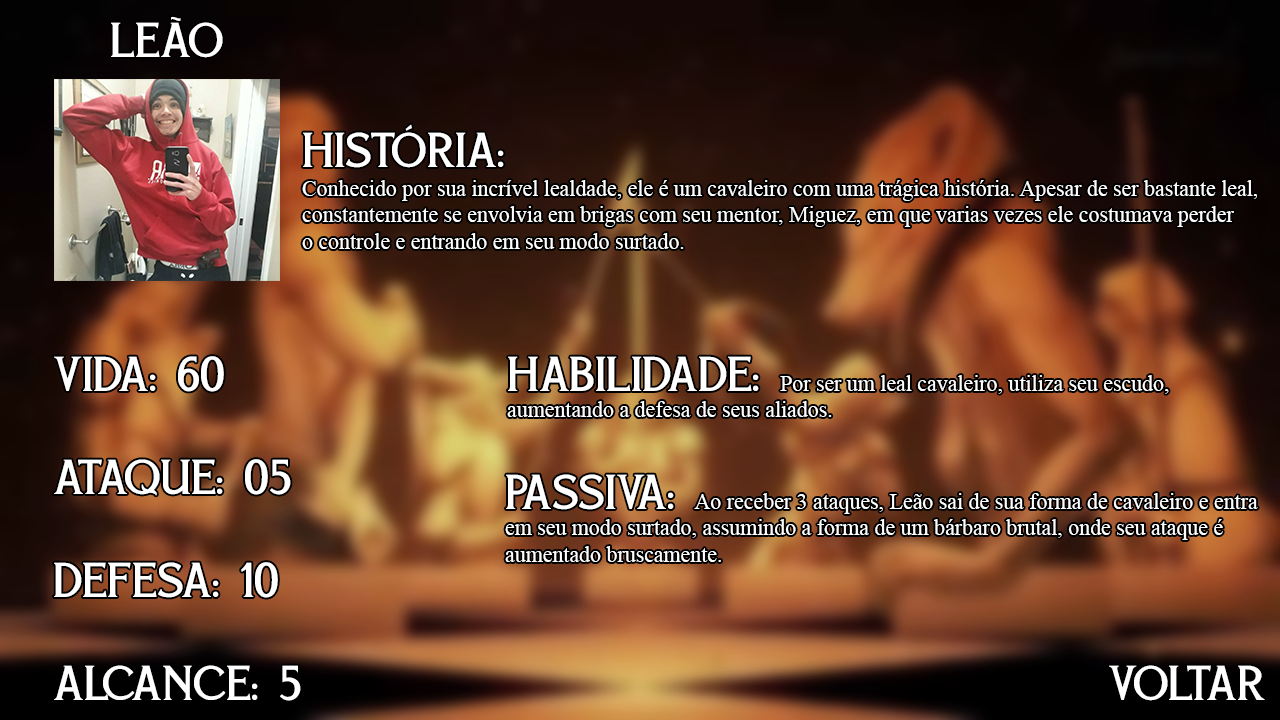
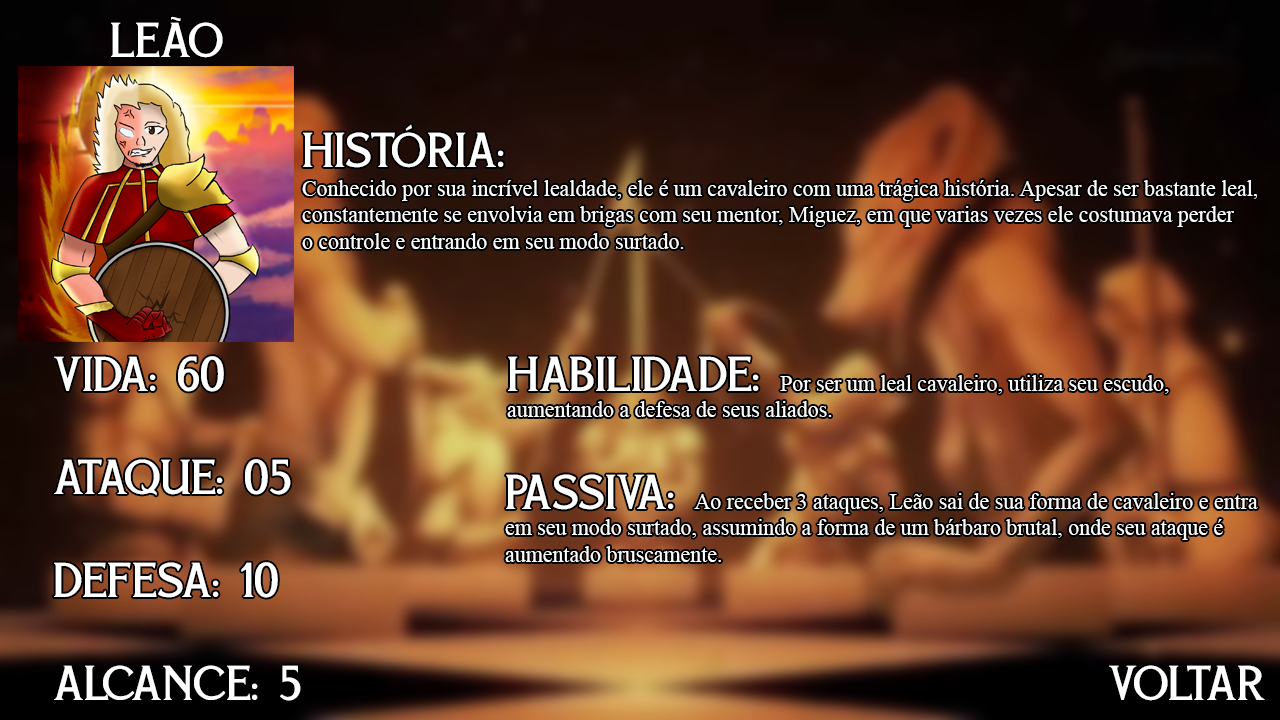
fazendo tela de vencedor, colocando henridog e atualizando regras

Changed region(s): [[0.0, 0.0917, 0.25, 0.4889]]

diff --git a/src/main/java/grupoxande/cst/JogarController.java b/src/main/java/grupoxande/cst/JogarController.java
@@ -9,6 +9,7 @@ import CSTgame.CSTpeca;
 import CSTgame.CSTposicao;
 import CSTgame.exececaoCST;
 import CSTgame.partidaCST;
+import CSTgame.personagensCST.henridog;
 import CSTgame.personagensCST.leao;
 import CSTgame.personagensCST.miguez;
 import CSTgame.personagensCST.racoba;
@@ -18,6 +19,7 @@ import static grupoxande.cst.App.*;
 import java.io.FileInputStream;
 
 import java.io.FileNotFoundException;
+import java.io.IOException;
 import java.net.URL;
 import java.util.InputMismatchException;
 import java.util.ResourceBundle;
@@ -31,7 +33,6 @@ import javafx.scene.control.TextInputDialog;
 import javafx.scene.image.Image;
 import javafx.scene.image.ImageView;
 import javafx.scene.layout.AnchorPane;
-import javafx.scene.layout.StackPane;
 import javafx.scene.shape.Rectangle;
 import tabuleiroGame.posicao;
 
@@ -127,12 +128,21 @@ private void inicializarTabulAnimacoes(){
         animacaoAtaque(atacado.toPosicao());
         CSTpeca lion = partidaCST.acharPecaPorPosicao(atacado.toPosicao());
         partidaCST.perfomaceAtaque(atacante, atacado);
+       
         if(lion.getVida() > 0){
             if(lion instanceof leao){
                 imagens[lion.getPosicao().getLinha()][lion.getPosicao().getColuna()].setImage(null);
                 imagens[lion.getPosicao().getLinha()][lion.getPosicao().getColuna()].setImage(((leao) lion).getVisual());
             }
         }
+           time vencedor = partidaCST.testaQuemGanhou();
+             if(vencedor == time.ORACULO){
+                 nomeVencedor = nomes[0];
+                 App.setRoot("vencedor");
+             }else if(vencedor == time.TROPA){
+                 nomeVencedor = nomes[1];
+                 App.setRoot("vencedor");
+             }
         
        
            //partidaCST.perfomaceFazerMovimento(mover, movido);
@@ -149,7 +159,9 @@ private void inicializarTabulAnimacoes(){
           alerta.setHeaderText("FALHA EM RELAÇÃO AO JOGO");
           alerta.setContentText(e.getMessage());
           alerta.show();
-      }
+      } catch (IOException ex) {
+            ex.printStackTrace();
+        }
     resetarTabuleiro();
     printarPartida.setText(UI.printarPartida(partidaCST, nomes));
     statuslabel.setText(UI.printarStatus(partidaCST.getJogador().getPecaAtual(), tamanhoTabul));
@@ -180,6 +192,15 @@ private void inicializarTabulAnimacoes(){
     CSTposicao movido = UI.traduzirPosicao(10, posicaoFinal);
     
        partidaCST.perfomaceFazerMovimento(mover, movido);
+        time vencedor = partidaCST.testaQuemGanhou();
+             if(vencedor == time.ORACULO){
+                 nomeVencedor = nomes[0];
+                 App.setRoot("vencedor");
+             }else if(vencedor == time.TROPA){
+                 nomeVencedor = nomes[1];
+                 App.setRoot("vencedor");
+             }
+             
      }catch (FileNotFoundException ex) {
            alerta.setHeaderText("FALHA EM ARQUIVO");
            alerta.setContentText("Arquivo nao encontrado");
@@ -193,7 +214,9 @@ private void inicializarTabulAnimacoes(){
           alerta.setHeaderText("FALHA EM RELAÇÃO AO JOGO");
           alerta.setContentText(e.getMessage());
           alerta.show();
-      }
+      } catch (IOException ex) {
+            ex.printStackTrace();
+        }
     resetarTabuleiro();
     printarPartida.setText(UI.printarPartida(partidaCST, nomes));
      statuslabel.setText(UI.printarStatus(partidaCST.getJogador().getPecaAtual(), tamanhoTabul));
@@ -212,13 +235,13 @@ private void inicializarTabulAnimacoes(){
             pegarposicao.showAndWait();
             posicao = pegarposicao.getResult();
             CSTposicao origem = UI.traduzirPosicao(10, posicao);
-             animacaoHabilidade(origem.toPosicao());
+             //animacaoHabilidade(origem.toPosicao());
              
             //printarTabuleiroPossiveisMovimento(mover);
             if(partidaCST.getJogador().getPecaAtual() instanceof racoba){
                 partidaCST.perfomaceHabilidade(origem, origem);
                 
-                animacaoHabilidade.setImage(null);
+                //animacaoHabilidade.setImage(null);
                 printarPartida.setText(UI.printarPartida(partidaCST, nomes));
                 statuslabel.setText(UI.printarStatus(partidaCST.getJogador().getPecaAtual(), tamanhoTabul));
             }else{
@@ -233,9 +256,18 @@ private void inicializarTabulAnimacoes(){
             CSTposicao destino = UI.traduzirPosicao(10, posicaoFinal);
             partidaCST.perfomaceHabilidade(origem, destino);
              
-             animacaoHabilidade.setImage(null);
+             animacaoHabilidade(origem.toPosicao());
              printarPartida.setText(UI.printarPartida(partidaCST, nomes));
              statuslabel.setText(UI.printarStatus(partidaCST.getJogador().getPecaAtual(), tamanhoTabul));
+             time vencedor = partidaCST.testaQuemGanhou();
+             if(vencedor == time.ORACULO){
+                 nomeVencedor = nomes[0];
+                 App.setRoot("vencedor");
+             }else if(vencedor == time.TROPA){
+                 nomeVencedor = nomes[1];
+                 App.setRoot("vencedor");
+             }
+             //animacaoHabilidade.setImage(null);
             }
      }catch(FileNotFoundException e){
           alerta.setHeaderText("FALHA AO LOCALIZAR ARQUIVO");
@@ -253,7 +285,9 @@ private void inicializarTabulAnimacoes(){
           alerta.setContentText(e.getMessage());
           alerta.show();
           animacaoHabilidade.setImage(null);
-      }
+      } catch (IOException ex) {
+            ex.printStackTrace();
+        }
     
     printarPartida.setText(UI.printarPartida(partidaCST, nomes));
      statuslabel.setText(UI.printarStatus(partidaCST.getJogador().getPecaAtual(), tamanhoTabul));
@@ -321,19 +355,28 @@ private void inicializarTabulAnimacoes(){
            }
             printarPartida.setText(UI.printarPartida(partidaCST, nomes));
             statuslabel.setText(UI.printarStatus(partidaCST.getJogador().getPecaAtual(), tamanhoTabul));
-             
+            time vencedor = partidaCST.testaQuemGanhou();
+             if(vencedor == time.ORACULO){
+                 nomeVencedor = nomes[0];
+                 App.setRoot("vencedor");
+             }else if(vencedor == time.TROPA){
+                 nomeVencedor = nomes[1];
+                 App.setRoot("vencedor");
+             }
          }catch(InputMismatchException e){
           alerta.setHeaderText("FALHA AO DIGTAR");
           alerta.setContentText(e.getMessage());
           alerta.show();
-          animacaoHabilidade.setImage(null);
+          //animacaoHabilidade.setImage(null);
           
       }catch(exececaoCST e){
           alerta.setHeaderText("FALHA EM RELAÇÃO AO JOGO");
           alerta.setContentText(e.getMessage());
           alerta.show();
           animacaoHabilidade.setImage(null);
-      }
+      } catch (IOException ex) {
+            ex.printStackTrace();
+        }
     }
 /*void partidaIniciada(){
     String resp = "S";
@@ -425,6 +468,8 @@ private void inicializarImagens(char coluna, int linha){
                visual = ((leao) visualPeca).getVisual();
            }else if(visualPeca instanceof juao){
                visual = ((juao) visualPeca).getVisual();
+           }else if(visualPeca instanceof henridog){
+               visual = ((henridog) visualPeca).getVisual();
            }
           
      }catch(FileNotFoundException e){
@@ -460,6 +505,8 @@ private void animacaoHabilidade(posicao pospeca) throws FileNotFoundException{
         animacao = new Image(new FileInputStream("C:\\Users\\Pedrão Barros\\Documents\\NetBeansProjects\\CST\\src\\main\\resources\\grupoxande\\cst\\imagem\\habilidadeMiguez.gif"));
     }else if(peca instanceof leao){
         animacao = new Image(new FileInputStream("C:\\Users\\Pedrão Barros\\Documents\\NetBeansProjects\\CST\\src\\main\\resources\\grupoxande\\cst\\imagem\\habilidadeLeao.gif"));
+    }else if(peca instanceof henridog){
+        animacao = new Image(new FileInputStream("C:\\Users\\Pedrão Barros\\Documents\\NetBeansProjects\\CST\\src\\main\\resources\\grupoxande\\cst\\imagem\\habilidadeHenridog.gif"));
     }
     animacaoHabilidade.setImage(animacao);
 }

diff --git a/src/main/java/CSTgame/partidaCST.java b/src/main/java/CSTgame/partidaCST.java
@@ -234,6 +234,8 @@ public class partidaCST implements Serializable{
             visual = ((racoba) pecavisual).getVisual();
         }else if(pecavisual instanceof juao){
             visual = ((juao) pecavisual).getVisual();
+        }else if(pecavisual instanceof henridog){
+            visual = ((henridog) pecavisual).getVisual();
         }
         //lembrar de colocar os visuais dos outros personagens
         return visual;
@@ -310,7 +312,7 @@ public class partidaCST implements Serializable{
     }
     proximoTurno();
 }
-    public void perfomaceHabilidade(CSTposicao posicaoVoce, CSTposicao posicaoAliado){
+    public void perfomaceHabilidade(CSTposicao posicaoVoce, CSTposicao posicaoAliado) throws FileNotFoundException{
         posicao posicaooVoce = posicaoVoce.toPosicao();
         posicao posicaooAliado = posicaoAliado.toPosicao();
         validacaoHabilidadeGenericaPosicao(posicaooVoce);
@@ -403,7 +405,7 @@ public class partidaCST implements Serializable{
         }
         
     }
-    private void habilidade(CSTpeca voce, CSTpeca aliado){
+    private void habilidade(CSTpeca voce, CSTpeca aliado) throws FileNotFoundException{
        if(voce instanceof juao){
            habilidadeJuao((juao)voce, aliado);
        }else{
@@ -627,15 +629,16 @@ public class partidaCST implements Serializable{
         }
         return -1;
     }
-    public void morreu(CSTpeca peca, CSTpeca atacante){
+    public void morreu(CSTpeca peca, CSTpeca atacante) throws FileNotFoundException{
         posicao aux = peca.getPosicao();
         if(peca.getVida() <= 0){
-            
+            imagens[peca.getPosicao().getLinha()][peca.getPosicao().getColuna()].setImage(null);
             tabuleiro.removerPeca(peca.getPosicao());
             if(peca instanceof henridog){
                 if(((henridog)peca).isRENASCEU() == false){
                     ((henridog)peca).passiva();
                     tabuleiro.colocarPeca(peca, aux);
+                    imagens[peca.getPosicao().getLinha()][peca.getPosicao().getColuna()].setImage(((henridog) peca).getVisual());
                 }else{
                     if(((CSTpeca)peca).getTiminho() == time.ORACULO){
                         pecasOraculo.remove(peca);
@@ -646,6 +649,7 @@ public class partidaCST implements Serializable{
                     }
                 }
             }else{
+                 
                 if(peca.getTiminho() == time.ORACULO){
                     pecasOraculo.remove(peca);
 
@@ -653,7 +657,7 @@ public class partidaCST implements Serializable{
                 }else{
                     pecasTropa.remove(peca);
                 }
-                imagens[peca.getPosicao().getLinha()][peca.getPosicao().getColuna()].setImage(null);
+               
             }
         }
     }   
@@ -828,9 +832,9 @@ public class partidaCST implements Serializable{
             //colocarNovaPeca(new obstaculo(tabuleiro, time.OBSTACULO, 0, 0, 10,5,"obsT"), 6, 'B');
             //colocarNovaPeca(new obstaculo(tabuleiro, time.OBSTACULO, 0, 0, 10,5,"obsT"), 10, 'G');
             //colocarNovaPeca(new henridog(tabuleiro, time.ORACULO, 20, 0, 120,5,"henrigO", this), 6, 'B');
-            colocarNovaPeca(new leao(tabuleiro, time.TROPA, 20, 0, 120,5,"leaoT"), 8, 'B');
-            colocarNovaPeca(new leao(tabuleiro, time.ORACULO, 20, 0, 120,5,"leaoT"), 7, 'B');
-             //colocarNovaPeca(new leao(tabuleiro, time.ORACULO, 20, 0, 120,5,"leaoO"), 6, 'B');
+            colocarNovaPeca(new leao(tabuleiro, time.TROPA, 20, 0, 119,5,"leaoT"), 8, 'B');
+            colocarNovaPeca(new henridog(tabuleiro, time.ORACULO, 20, 0, 120,5,"leaoT",this), 7, 'B');
+            //colocarNovaPeca(new leao(tabuleiro, time.ORACULO, 20, 0, 120,5,"leaoO"), 6, 'B');
            // colocarNovaPeca(new racoba(tabuleiro, time.ORACULO, 20, 0, 120,5,"leaoT",this), 6, 'B');
             //colocarNovaPeca(new racoba(tabuleiro, time.TROPA, 20, 0, 120,5,"leaoT",this), 5, 'B');
             //colocarNovaPeca(new miguez(tabuleiro, time.ORACULO, 20, 0, 120,5,this,"leaoT"), 4, 'B');

diff --git a/src/main/java/CSTgame/personagensCST/henridog.java b/src/main/java/CSTgame/personagensCST/henridog.java
@@ -21,9 +21,15 @@ import tabuleiroGame.tabuleiro;
 public class henridog extends CSTpeca{
 private int vidaMax;
 private partidaCST partidaCST;
+private time timinho;
    private Image visual;
     public Image getVisual() throws FileNotFoundException {
-        visual = new Image(new FileInputStream("C:\\Users\\Pedrão Barros\\Documents\\NetBeansProjects\\CST\\src\\main\\resources\\grupoxande\\cst\\imagem\\leaonojogo.png"));
+        if(timinho == time.ORACULO){
+            visual = new Image(new FileInputStream("C:\\Users\\Pedrão Barros\\Documents\\NetBeansProjects\\CST\\src\\main\\resources\\grupoxande\\cst\\imagem\\henridogOraculo.png"));
+        }else{
+            visual = new Image(new FileInputStream("C:\\Users\\Pedrão Barros\\Documents\\NetBeansProjects\\CST\\src\\main\\resources\\grupoxande\\cst\\imagem\\henridogTropa.png"));
+        }
+        
         return visual;
     }
 public int getVidaMax() {
@@ -42,6 +48,7 @@ public void setRENASCEU(boolean rENASCEU) {
 
 public henridog(tabuleiro tabul, time timinho, int ataque, int defesa, int vida, int rangeMovimento, String nome, partidaCST partidaCST){ 
     super(tabul, timinho, ataque, defesa, vida, rangeMovimento, nome);
+    this.timinho = timinho;
     this.vidaMax = vida;
     this.partidaCST = partidaCST;
     setRENASCEU(false);
@@ -178,7 +185,7 @@ public String toString(){
         return matAux;
     }  
     @Override
-    public void habilidade(CSTpeca generico) {
+    public void habilidade(CSTpeca generico) throws FileNotFoundException {
         CSTpeca qualquercoisa;
         posicao posTeste = new posicao (0, 0);
         int rangehab = 7;

diff --git a/src/main/java/grupoxande/cst/VencedorController.java b/src/main/java/grupoxande/cst/VencedorController.java
@@ -1,0 +1,59 @@
+/*
+ * To change this license header, choose License Headers in Project Properties.
+ * To change this template file, choose Tools | Templates
+ * and open the template in the editor.
+ */
+package grupoxande.cst;
+
+import java.io.IOException;
+import java.net.URL;
+import java.util.ResourceBundle;
+import javafx.event.ActionEvent;
+import javafx.fxml.FXML;
+import javafx.fxml.Initializable;
+import javafx.scene.control.Button;
+import javafx.scene.control.Label;
+import javafx.scene.layout.AnchorPane;
+import javafx.stage.Stage;
+
+/**
+ * FXML Controller class
+ *
+ * @author Pedrão Barros
+ */
+public class VencedorController implements Initializable {
+
+    @FXML
+    private AnchorPane vencedorTela;
+
+    @FXML
+    private Button botaoSim;
+
+    @FXML
+    private Button botaoNao;
+
+    @FXML
+    private Label vencedor;
+    @Override
+    public void initialize(URL url, ResourceBundle rb) {
+        vencedor.setText(App.nomeVencedor);
+    } 
+ 
+
+    @FXML
+    void continuarJogar(ActionEvent event) {
+        try {
+            App.setRoot("jogarInicial");
+        } catch (IOException ex) {
+            ex.printStackTrace();
+        }
+        
+    }
+
+    @FXML
+    void fecharJogo(ActionEvent event) {
+        Stage stage = (Stage) botaoNao.getScene().getWindow();
+        stage.close();
+    }
+    
+}

diff --git a/src/main/java/CSTgame/CSTpeca.java b/src/main/java/CSTgame/CSTpeca.java
@@ -5,6 +5,7 @@
  */
 package CSTgame;
 
+import java.io.FileNotFoundException;
 import tabuleiroGame.peca;
 import tabuleiroGame.posicao;
 import tabuleiroGame.tabuleiro;
@@ -115,7 +116,7 @@ public abstract class CSTpeca extends peca{
     public CSTpeca(tabuleiro tabul) {
         super(tabul);  
     }
-    public abstract void habilidade(CSTpeca generico);
+    public abstract void habilidade(CSTpeca generico) throws FileNotFoundException;
     
 
 }

diff --git a/src/main/java/grupoxande/cst/App.java b/src/main/java/grupoxande/cst/App.java
@@ -29,6 +29,7 @@ public class App extends Application{
     public static String posicaoFinal;
     public static Label[] legendaLinha;
     public static Label[] legendaColuna;
+    public static String nomeVencedor;
     @Override
     public void start(Stage stage) throws IOException {
         scene = new Scene(loadFXML("telaInicial"), 640, 480);
